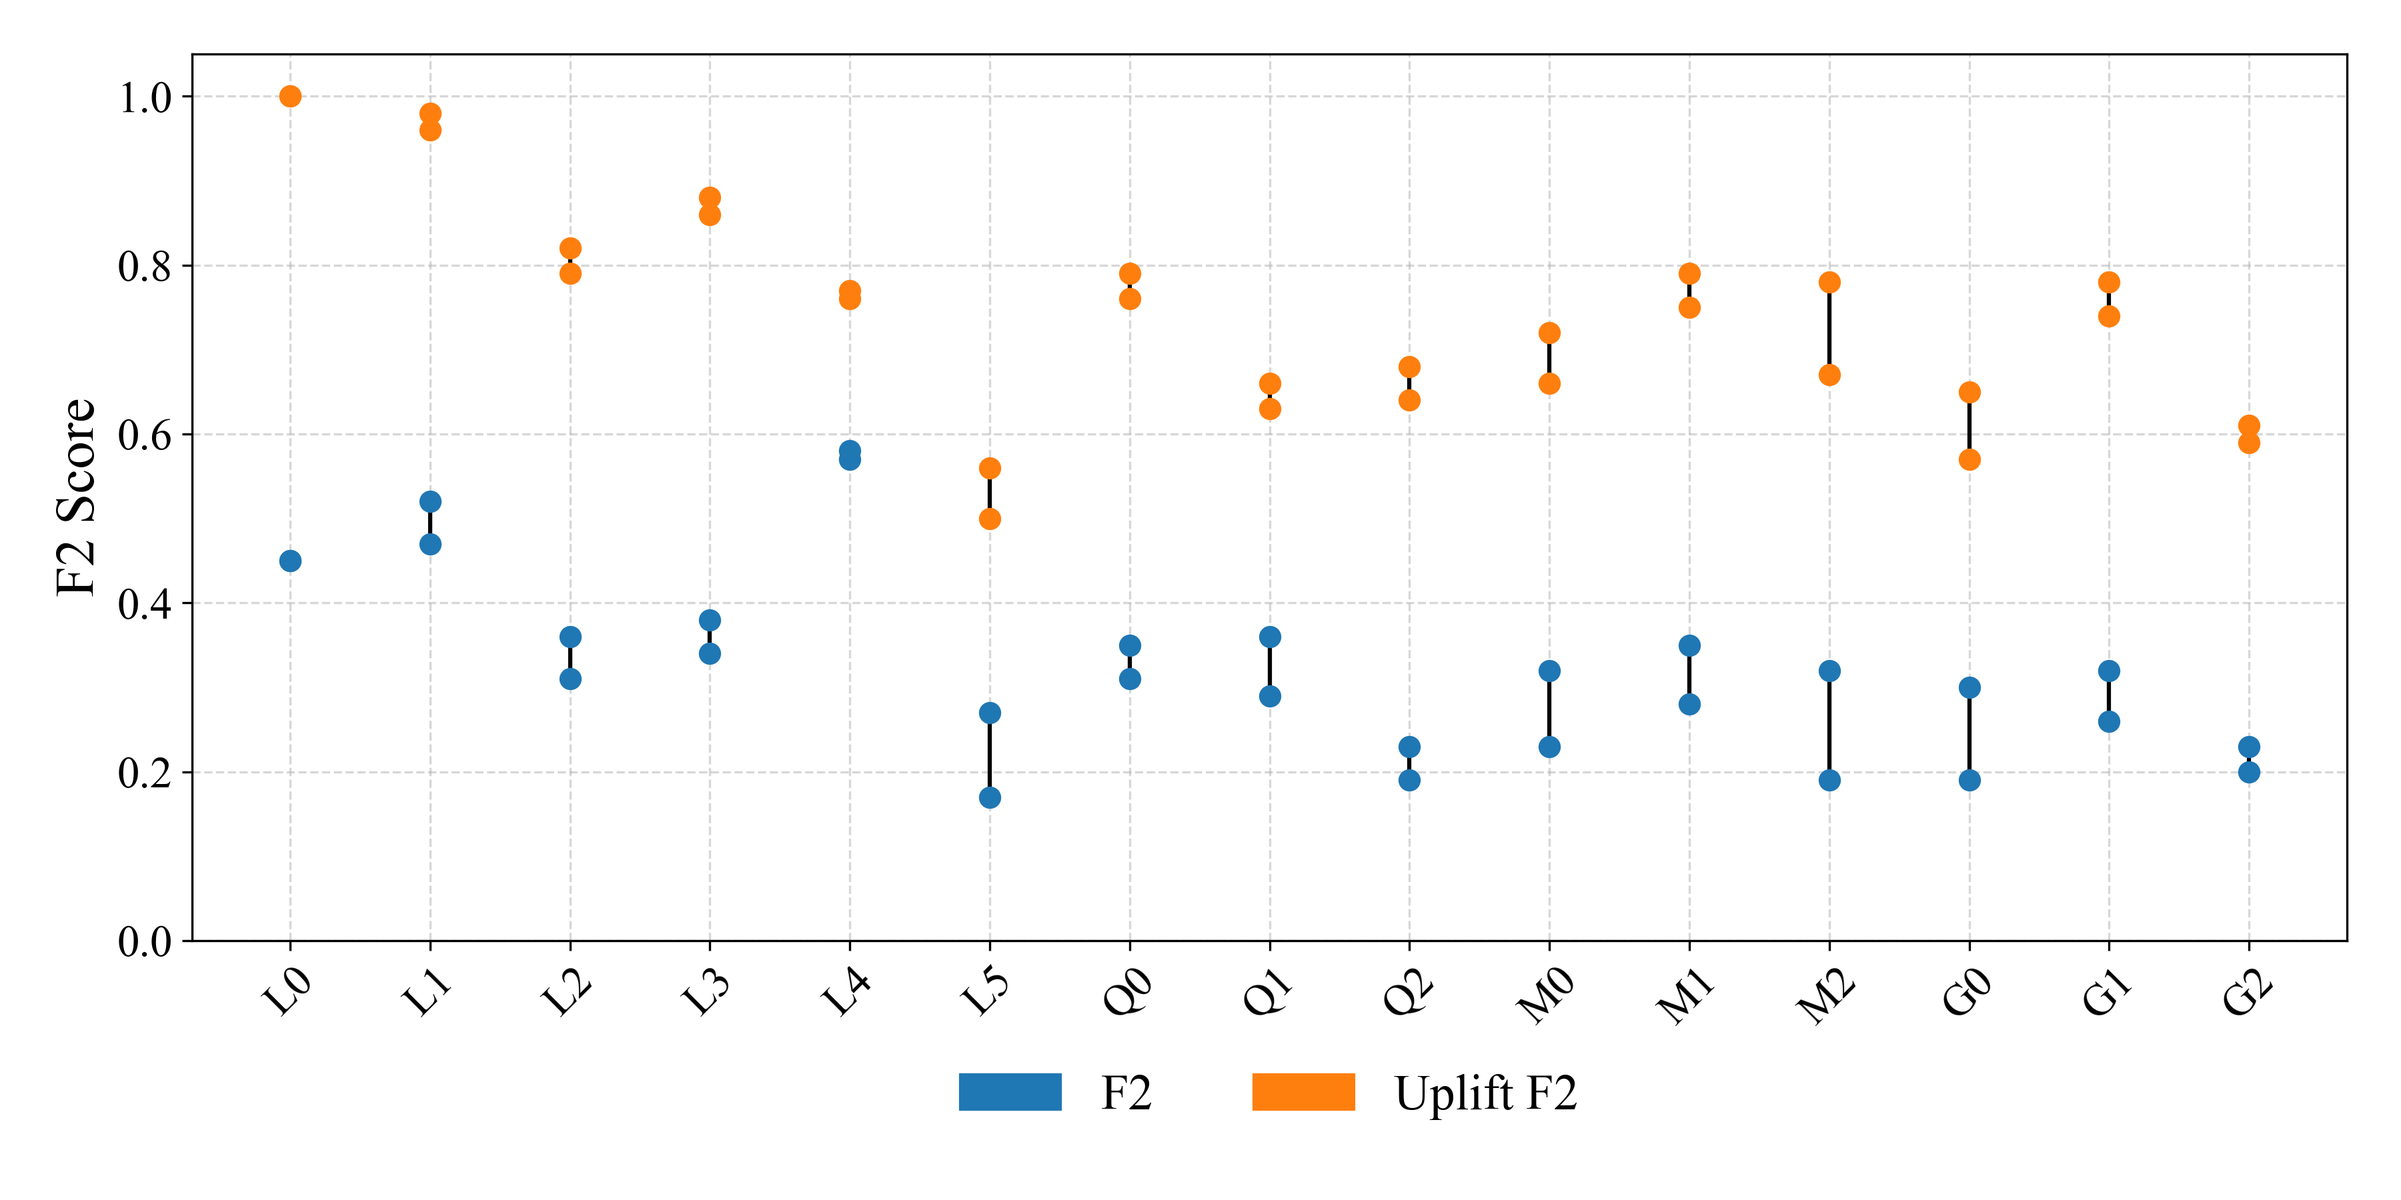
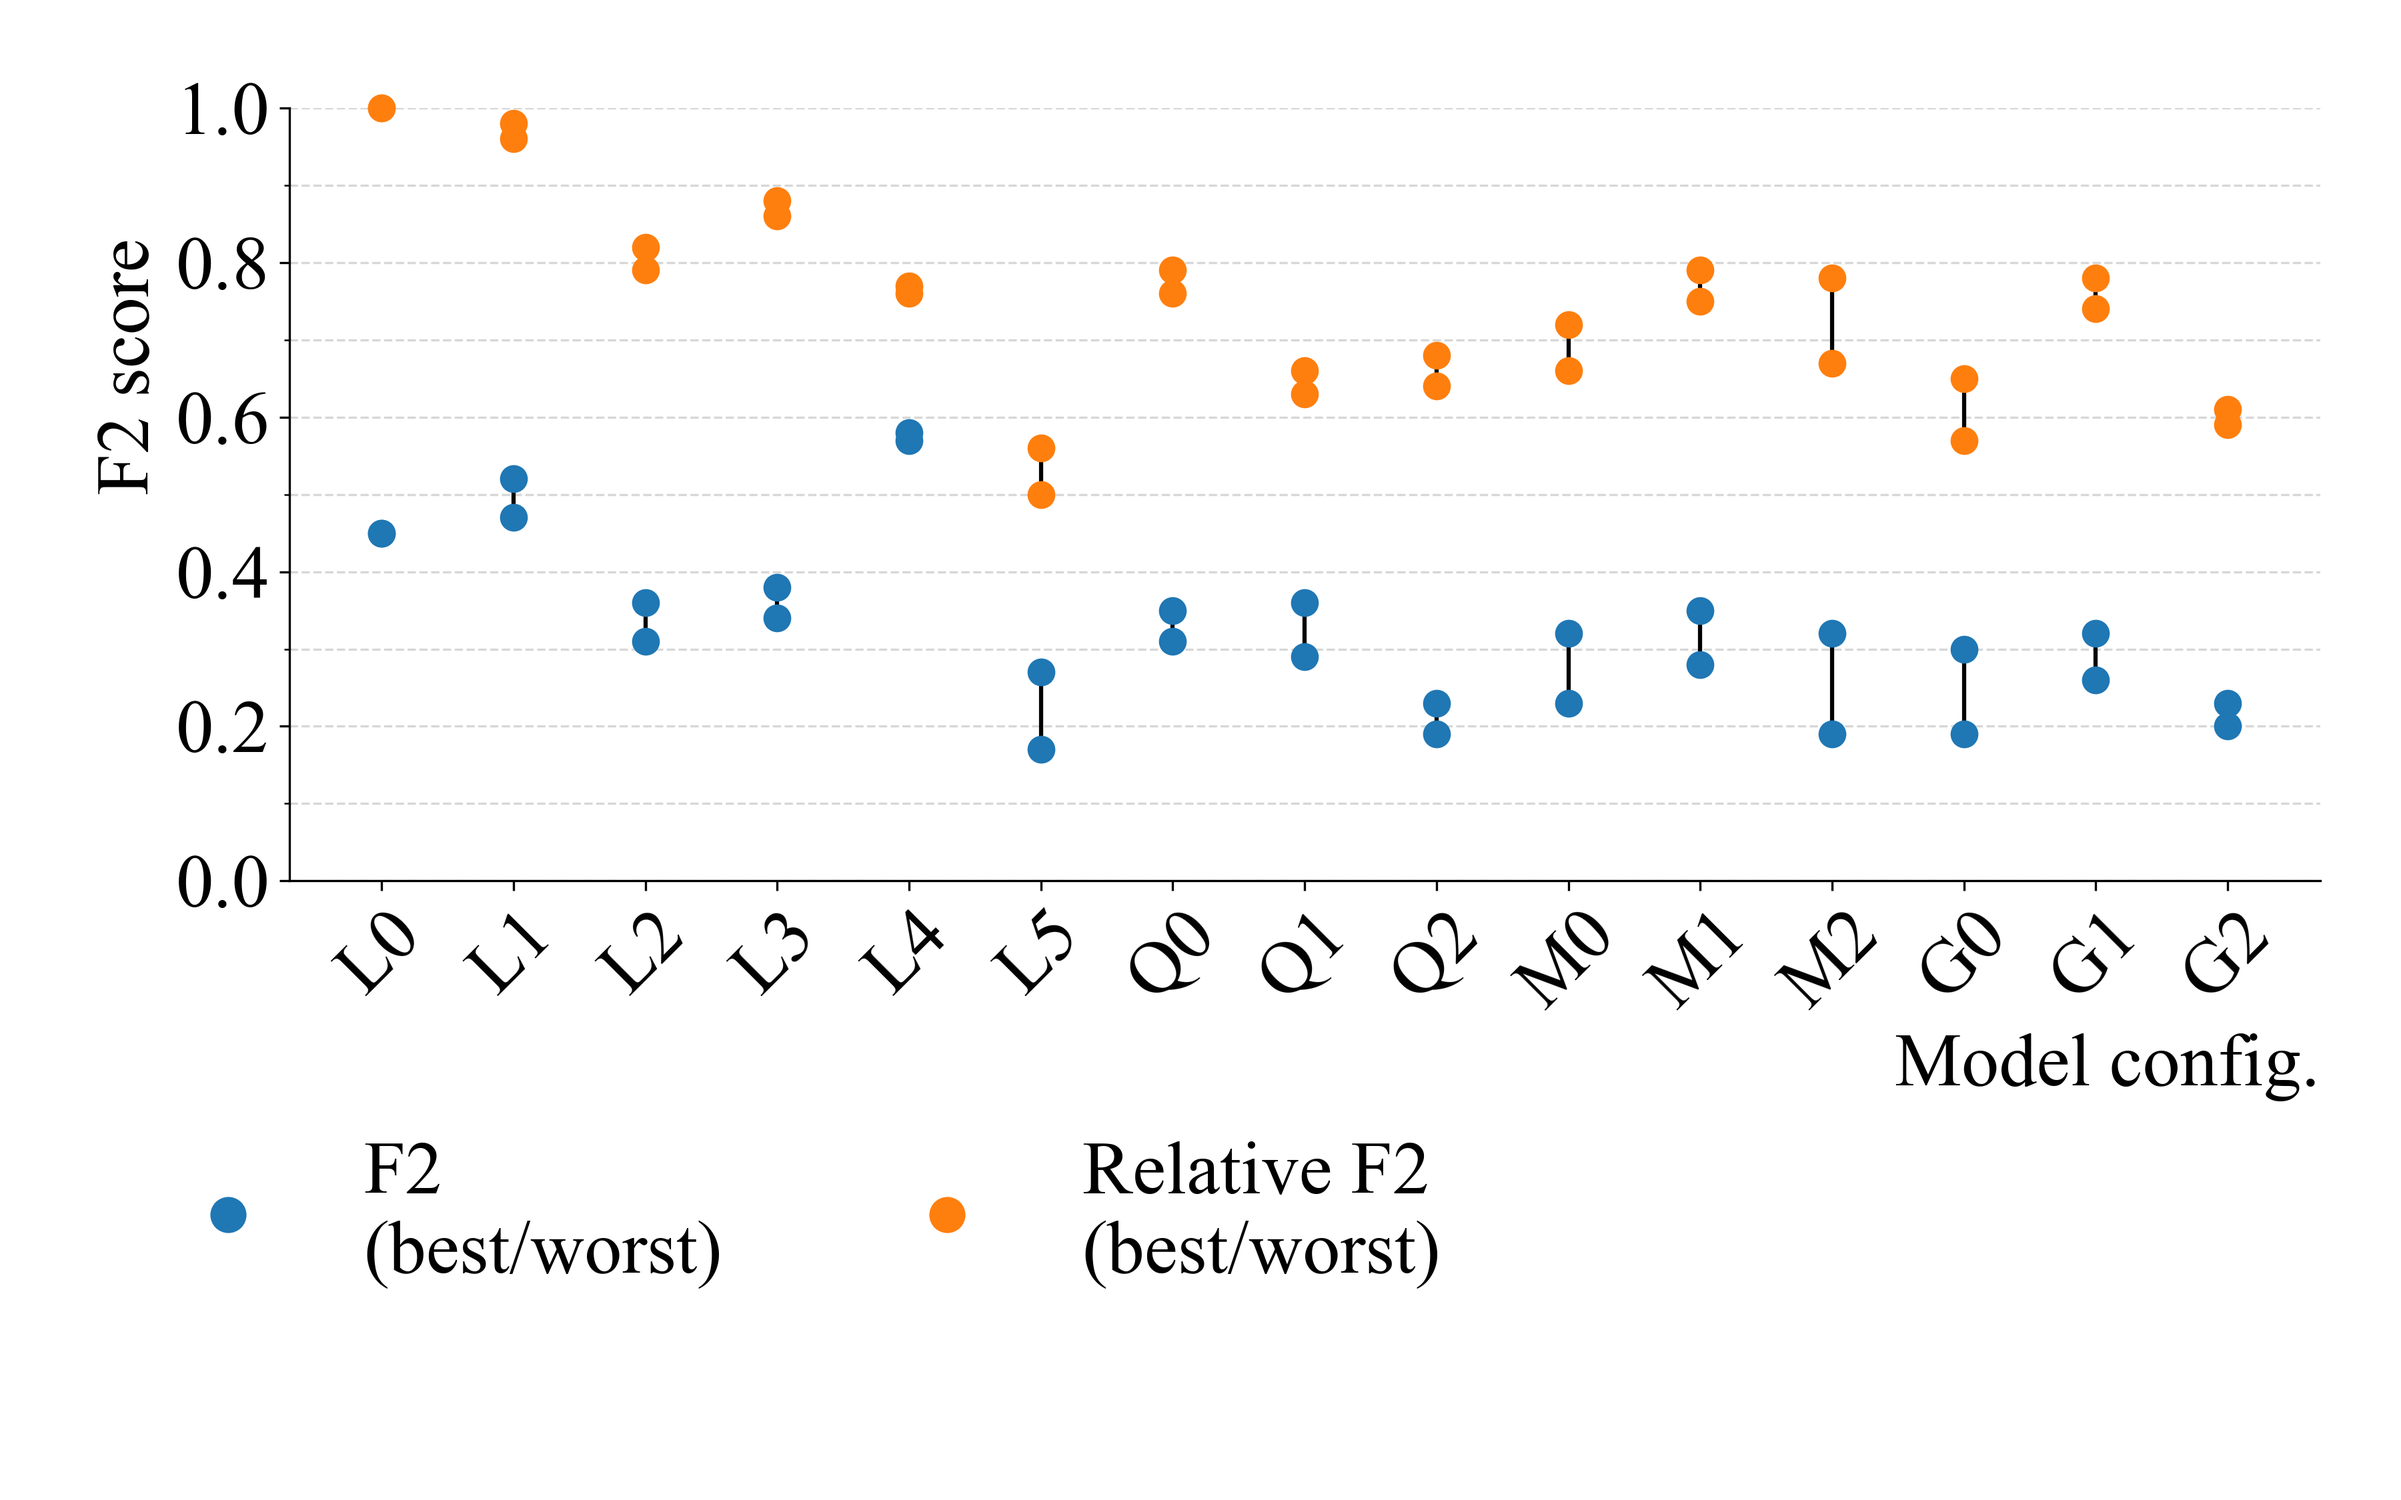
Update figures

diff --git a/src/graph/results_figure_b.py b/src/graph/results_figure_b.py
@@ -1,6 +1,8 @@
 import matplotlib.pyplot as plt
 import numpy as np
 from matplotlib.lines import Line2D
+from matplotlib.ticker import MultipleLocator
+from matplotlib.legend_handler import HandlerTuple
 
 # Category labels
 labels = ['L0', 'L1', 'L2', 'L3', 'L4', 'L5', 'Q0', 'Q1', 'Q2', 'M0', 'M1', 'M2', 'G0', 'G1', 'G2']
@@ -12,23 +14,27 @@ merged_box_width = 0.3
 half_merged = merged_box_width / 2
 merged_left = x - tight_offset
 merged_right = x + tight_offset
-solid_alpha_final = 1.0
+box_alpha = 1.0
 
 # Colors
-precision_color = '#1f77b4'  # Blue
-recall_color = '#2ca02c'     # Green
-best_color = '#ff7f0e'       # Orange
-worst_color = '#d62728'      # Red
+
+# precision is light blue, recall is light green
+# centers are darker versions of the same colors
+
+precision_color = '#99ddff'
+recall_color = '#99ff9c'
+precision_center_color = "#006699"
+recall_center_color = "#009900"
 line_color = 'black'
 
 # Font config
 plt.rcParams.update({
   'font.family': 'Times New Roman',
-  'font.size': 18,
-  'axes.labelsize': 20,
-  'xtick.labelsize': 16,
-  'ytick.labelsize': 16,
-  'legend.fontsize': 18
+  'font.size': 27,
+  'axes.labelsize': 27,
+  'xtick.labelsize': 27,
+  'ytick.labelsize': 27,
+  'legend.fontsize': 27
 })
 
 # Actual data (could be loaded from file)
@@ -64,39 +70,60 @@ merged_r_low, merged_r_cmin, merged_r_cmax, merged_r_high = merge_extremes(
 )
 
 # Plotting
-fig, ax = plt.subplots(figsize=(12, 6))
+fig, ax = plt.subplots(figsize=(12, 7.5))
 
 def draw_boxes(ax, positions, low, cmin, cmax, high, box_color, label):
   for i, (pos, lo, cmn, cmx, hi) in enumerate(zip(positions, low, cmin, cmax, high)):
     ax.add_patch(plt.Rectangle((pos - half_merged, min(lo, cmn)), merged_box_width, abs(cmn - lo),
-                   color=box_color, alpha=solid_alpha_final, linewidth=0))
+                   color=box_color, alpha=box_alpha, linewidth=0))
     ax.add_patch(plt.Rectangle((pos - half_merged, min(cmn, cmx)), merged_box_width, abs(cmx - cmn),
-                   color=box_color, alpha=solid_alpha_final, linewidth=0))
+                   color=box_color, alpha=box_alpha, linewidth=0))
     ax.add_patch(plt.Rectangle((pos - half_merged, min(cmx, hi)), merged_box_width, abs(hi - cmx),
-                   color=box_color, alpha=solid_alpha_final, linewidth=0))
-    ax.plot([pos, pos], [cmn, cmx], color=line_color, linewidth=1.5)
-    ax.plot(pos, cmn, marker='o', color=worst_color, markersize=5)
-    ax.plot(pos, cmx, marker='o', color=best_color, markersize=5)
+                   color=box_color, alpha=box_alpha, linewidth=0))
+    ax.plot([pos, pos], [cmn, cmx], color=recall_center_color, linewidth=1.5)
   ax.plot([], [], color=box_color, linewidth=8, label=label)
 
 # Draw plots
 draw_boxes(ax, merged_left, merged_p_low, merged_p_cmin, merged_p_cmax, merged_p_high, precision_color, 'Precision CI')
 draw_boxes(ax, merged_right, merged_r_low, merged_r_cmin, merged_r_cmax, merged_r_high, recall_color, 'Recall CI')
+ax.plot(merged_left, merged_p_cmin, 'o', color=precision_center_color, markersize=7)
+ax.plot(merged_left, merged_p_cmax, 'o', color=precision_center_color, markersize=7)
+ax.plot(merged_right, merged_r_cmin, 'o', color=recall_center_color, markersize=7)
+ax.plot(merged_right, merged_r_cmax, 'o', color=recall_center_color, markersize=7)
 
 # Legend setup
 legend_handles = [
   Line2D([0], [0], color=precision_color, linewidth=8, label='Precision CI'),
   Line2D([0], [0], color=recall_color, linewidth=8, label='Recall CI'),
-  Line2D([0], [0], marker='o', color='w', markerfacecolor=best_color, markersize=6, label='Best Average'),
-  Line2D([0], [0], marker='o', color='w', markerfacecolor=worst_color, markersize=6, label='Worst Average'),
+  (
+    Line2D([0], [0], marker='o', color='w', markerfacecolor=precision_center_color, markersize=9),
+    Line2D([0], [0], marker='o', color='w', markerfacecolor=recall_center_color, markersize=9)
+  )
 ]
+
 
 ax.set_xticks(x)
 ax.set_xticklabels(labels, rotation=45)
-ax.set_ylabel('Score')
-ax.set_ylim(0, 1.05)
-ax.grid(True, linestyle='--', alpha=0.5)
-ax.legend(handles=legend_handles, loc='upper center', bbox_to_anchor=(0.5, -0.15), ncol=4, frameon=False)
+ax.set_ylabel('Score', ha='left', x=1.0)
+ax.set_xlabel('Model config.', ha='right', x=1.0)
+ax.set_ylim(0, 1.00)
+ax.spines['top'].set_visible(False)
+ax.spines['right'].set_visible(False)
+
+ax.set_yticks(np.arange(0, 1.01, 0.2))
+ax.yaxis.set_minor_locator(MultipleLocator(0.1))
+ax.grid(which='minor', axis='y', linestyle='--', alpha=0.5)
+ax.grid(which='major', axis='y', linestyle='--', alpha=0.5)
+ax.legend(
+  handles=legend_handles,
+  labels=['Precision CI', 'Recall CI', 'Best/worst'],
+  handler_map={legend_handles[2]: HandlerTuple(ndivide=None)},
+  loc='upper center',
+  bbox_to_anchor=(0.5, -0.25),
+  ncol=3,
+  frameon=False
+)
+
 
 plt.tight_layout()
 plt.savefig("../../results/graph/results_figure_b.png", dpi=300)

diff --git a/src/graph/results_figure_a.py b/src/graph/results_figure_a.py
@@ -1,6 +1,8 @@
 import matplotlib.pyplot as plt
 import numpy as np
+from matplotlib.lines import Line2D
 import matplotlib.patches as mpatches
+from matplotlib.ticker import MultipleLocator
 
 # Labels for the categories
 labels = ['L0', 'L1', 'L2', 'L3', 'L4', 'L5', 'Q0', 'Q1', 'Q2', 'M0', 'M1', 'M2', 'G0', 'G1', 'G2']
@@ -15,24 +17,24 @@ f2s_best = np.array([1.00, 0.98, 0.82, 0.88, 0.77, 0.56, 0.79, 0.66, 0.68, 0.72,
 # Font config
 plt.rcParams.update({
   'font.family': 'Times New Roman',
-  'font.size': 18,
-  'axes.labelsize': 20,
-  'xtick.labelsize': 16,
-  'ytick.labelsize': 16,
-  'legend.fontsize': 18
+  'font.size': 27,
+  'axes.labelsize': 27,
+  'xtick.labelsize': 27,
+  'ytick.labelsize': 27,
+  'legend.fontsize': 27
 })
 
 # Plotting function for aligned dumbbells with larger dots
 def draw_aligned_dumbbells(ax, positions, low, high, line_color, low_color, high_color, label):
   for x_pos, lo, hi in zip(positions, low, high):
     ax.plot([x_pos, x_pos], [lo, hi], color=line_color, linewidth=1.5)
-    ax.plot(x_pos, lo, marker='o', color=low_color, markersize=7)
-    ax.plot(x_pos, hi, marker='o', color=high_color, markersize=7)
+    ax.plot(x_pos, lo, marker='o', color=low_color, markersize=9, clip_on=False)
+    ax.plot(x_pos, hi, marker='o', color=high_color, markersize=9, clip_on=False)
   ax.plot([], [], color=line_color, marker='o', markerfacecolor=high_color,
       markeredgecolor=line_color, linestyle='None', label=label)
 
 # Create the figure
-fig, ax = plt.subplots(figsize=(12, 6))
+fig, ax = plt.subplots(figsize=(12, 7.5))
 
 # Draw dumbbells
 draw_aligned_dumbbells(ax, x, f2_worst, f2_best, 'black', '#1f77b4', '#1f77b4', 'F2')
@@ -41,16 +43,29 @@ draw_aligned_dumbbells(ax, x, f2s_worst, f2s_best, 'black', '#ff7f0e', '#ff7f0e'
 # Formatting axes
 ax.set_xticks(x)
 ax.set_xticklabels(labels, rotation=45)
-ax.set_ylabel('F2 Score')
-ax.set_ylim(0, 1.05)
-ax.grid(True, linestyle='--', alpha=0.5)
+ax.set_ylabel('F2 score', ha='left', x=1.0)
+ax.set_xlabel('Model config.', ha='right', x=1.0)
+ax.set_ylim(0, 1.00)
+ax.spines['top'].set_visible(False)
+ax.spines['right'].set_visible(False)
+
+ax.set_yticks(np.arange(0, 1.01, 0.2))
+ax.yaxis.set_minor_locator(MultipleLocator(0.1))
+ax.grid(which='minor', axis='y', linestyle='--', alpha=0.5)
+ax.grid(which='major', axis='y', linestyle='--', alpha=0.5)
 
 # Custom legend
 f2_patch = mpatches.Patch(color='#1f77b4', label='F2')
 f2s_patch = mpatches.Patch(color='#ff7f0e', label='Relative F2')
-ax.legend(handles=[f2_patch, f2s_patch], loc='upper center', bbox_to_anchor=(0.5, -0.1), ncol=2, frameon=False)
+ax.legend(
+  handles=[
+    Line2D([0], [0], marker='o', color='w', markerfacecolor='#1f77b4', markersize=14, label='F2\n(best/worst)'),
+    Line2D([0], [0], marker='o', color='w', markerfacecolor='#ff7f0e', markersize=14, label='Relative F2\n(best/worst)'),
+  ],
+  loc='upper center', bbox_to_anchor=(0.25, -0.25), ncol=2, frameon=False
+)
 
 # Save and display
 plt.tight_layout()
 plt.savefig("../../results/graph/results_figure_a.png", dpi=300)
-#plt.show()
+plt.show()
